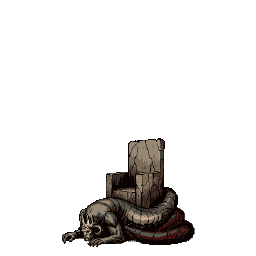
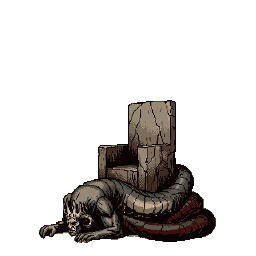
T40: Vertigem com 80 de vida; Minos e Vertigem maiores na tela (D-405)
Claude-Session: https://claude.ai/code/session_01DUWuezvzjAUhnjSiedgYuQ

Changed region(s): [[0.1562, 0.375, 0.8438, 0.9688]]

diff --git a/tools/art/import_pixel.py b/tools/art/import_pixel.py
@@ -65,6 +65,8 @@ FEET_ROWS = 6
 # Every figure is shrunk by this factor after the cleaning, so the company
 # and the enemies stand apart on the 960 x 540 screen with room between the
 # two sides (D-384). The feet stay on the same point of the 256 frame.
+# A character may have its own factor (`figure_scale` in the table): the
+# elites stand taller than the common enemies (D-405).
 FIGURE_SCALE = 0.6
 # The bust for the portrait arch and the enemy sheet is cut from the idle
 # frame at full size, before the shrink: width, height, and how far the
@@ -91,6 +93,7 @@ class Character:
     halo: tuple[float, float, float] | None
     # Every clip of the character gets the warm skin (D-388).
     warm: bool = False
+    figure_scale: float = FIGURE_SCALE
     clips: list["Clip"] = field(default_factory=list)
 
 
@@ -135,6 +138,7 @@ def read_characters() -> list[Character]:
                 weight=row["weight"],
                 palette=row["palette"],
                 halo=halo,
+                figure_scale=float(row.get("figure_scale") or FIGURE_SCALE),
             )
     with CLIPS_CSV.open(encoding="utf-8") as f:
         for row in csv.DictReader(f):
@@ -360,7 +364,7 @@ def shrink(cell: np.ndarray, scale: float) -> np.ndarray:
 def _finish(cells: list[np.ndarray], clip: Clip, char: Character, colours: np.ndarray,
             report: dict[str, int]) -> list[np.ndarray]:
     for i, cell in enumerate(cells):
-        cell = shrink(cell, FIGURE_SCALE)
+        cell = shrink(cell, char.figure_scale)
         binarize(cell)
         if char.palette == "snap":
             report["paleta"] += snap_to_palette(cell, colours)
@@ -450,8 +454,8 @@ def write_resource(char: Character, sheets: list[Sheet], anchor: tuple[int, int]
     halo_center, halo_diameter = (0.0, 0.0), 0.0
     if char.halo is not None:
         # Measured on the full-size figure: shrunk with it.
-        halo_center = (round(figure[0] + char.halo[0] * FIGURE_SCALE), round(figure[1] + char.halo[1] * FIGURE_SCALE))
-        halo_diameter = round(char.halo[2] * FIGURE_SCALE)
+        halo_center = (round(figure[0] + char.halo[0] * char.figure_scale), round(figure[1] + char.halo[1] * char.figure_scale))
+        halo_diameter = round(char.halo[2] * char.figure_scale)
     lines += [
         "[resource]",
         'script = ExtResource("1_set")',

diff --git a/docs/memory/decisions.md b/docs/memory/decisions.md
@@ -327,4 +327,5 @@ Formato: **D-número · data · quem** — decisão. *Onde está aplicada.*
 - **D-402 · 15/11/2026 · Alan** — Respostas da T39: (1) **opção B**: a Clausura de Bento vale só contra os inimigos e **não segura o Vendaval** (revê D-109 nesse ponto; com Bento no meio ela seguraria todo Vendaval); Firmar o pé é a resposta; (2) os encontros difíceis do Círculo 2 ficam como estão e são medidos de novo na T42; (3) o Vendaval ganha, na T44, **ícone**, **efeito no motor** (vento varrendo o campo na troca) e, se precisar, um **elemento** feito no PixelLab (com custo e permissão antes); (4) T39 aprovada para merge com o CI verde. *`bosses.md` §2.1, §2.2, §7; `expedition.md` §10, §10.1; `combat.md` §4.1; `battle_state.gd`.*
 - **D-403 · 15/11/2026 · Alan** — T39 com merge (PR #73), com o CI verde. Próxima: T40 (elites Minos e Vertigem, nó variável completo). *`progress.md`.*
 - **D-404 · 15/11/2026 · agente** — T40: Minos (`elite_minos`) e Vertigem (`elite_sin_vertigo`, ids da arte) com as ações e números de `bosses.md` §3 e §4 (D-394), família `elite`; encontros `c02_elite_minos` e `c02_elite_vertigo` com Vendaval; condição **Encantado** (`enchanted`, 2 rodadas pela nova forma de expirar `expire_after_rounds`), que puxa as ações inimigas de alvo único (a Provocação vence) e quebra com a bênção de outro santo (cura, Amparo, Força, limpeza, só por habilidade), dando Firmeza; IA ganha a regra `highest_hp` e a condição `no_party_condition`. Ajustes técnicos à tabela da Vertigem: Rodopio antes dos Véus (senão nunca seria escolhido) e Véus no santo da frente; alvos até a posição 3. O nó variável sorteia elites com os pesos 40/35/25 no Círculo 2 (no máximo um por caminho, já validado pelo gerador); a arena segue sem elite. Clausura resiste ao puxão de Minos (D-109). Simulador: Vertigem fácil demais (100%, pergunta a Alan). *`enemies.csv`, `enemy_actions.csv`, `effects.csv`, `conditions.csv`, `encounters.csv`, `enemy_brain.gd`, `condition_engine.gd`, `effect_queue.gd`, `expedition_controller.gd`, `conditions.md`, `enemy-ai.md`, `bosses.md`, `expedition.md` §13, `sim-reports/2026-11-15-m2-t40.md`.*
+- **D-405 · 15/11/2026 · Alan** — Revisão da T40: (1) **Vertigem com 80 de vida** (era 58; opção A); medido de novo, ela continua fácil (100%, 87% da vida no fim): a escolta frágil é o motivo (pergunta a Alan). (2) **Tamanho:** Minos mais alto que o Diabo de Lodo e a Vertigem pelo menos do tamanho da Sombra do Desejo; feito sem refazer imagens, encolhendo menos os dois na entrada (coluna nova `figure_scale` em `pixel_characters.csv`: Minos 0,8 → 177 px de altura; Vertigem 0,72 → 153 px; os outros seguem 0,6). Se ficar ruim, refazer as imagens no PixelLab (avisar Alan). *`enemies.csv`, `bosses.md` §4, `tools/art/import_pixel.py`, `pixel_characters.csv`.*
 - **D-308** — Simulador: formação do M0 Jorge (1), Bento (2), Teresinha (3); expedição longa simulada com 6 combates, Lume −5 por nó, Pousos com Vigília depois dos combates 2 e 4 e vida cheia a cada combate. *T13, `tools/sim/battle_simulator.gd`.*

diff --git a/docs/memory/open-questions.md b/docs/memory/open-questions.md
@@ -108,5 +108,6 @@ Riscar (~~assim~~) e anotar a data quando resolver.
 | T39: encontros difíceis do Círculo 2 bem mais duros que os da arena (vitória 47% contra 66%); medir de novo na expedição longa | T42 | 15/11/2026 |
 | ~~T39: ícone do Vendaval sobre os santos (hoje só a palavra); peça do PixelLab com custo e permissão~~ Decidido (D-402): ícone, efeito no motor e, se precisar, elemento do PixelLab, na T44 | Alan / T44 | 15/11/2026 |
 | Vendaval na T44: ícone, efeito no motor (vento varrendo o campo na troca) e talvez um elemento do PixelLab (mandar custo antes, D-402) | Alan / T44 | 15/11/2026 |
-| T40: Vertigem fácil no simulador (100% de vitória, 89% de vida no fim); subir a vida, trocar a escolta ou medir de novo na T42 | Alan | 15/11/2026 |
-| T40: Minos e Vertigem no tamanho dos inimigos comuns na tela; tamanho dos elites e do chefe (pendência de D-233) | Alan | 15/11/2026 |
+| ~~T40: Vertigem fácil no simulador (100% de vitória, 89% de vida no fim); subir a vida, trocar a escolta ou medir de novo na T42~~ Vida 80 (D-405); continua fácil: escolta frágil, nova pergunta | Alan | 15/11/2026 |
+| ~~T40: Minos e Vertigem no tamanho dos inimigos comuns na tela; tamanho dos elites e do chefe (pendência de D-233)~~ Minos 177 px e Vertigem 153 px (D-405); Asmodeu na T41 | Alan | 15/11/2026 |
+| T40: Vertigem ainda fácil com 80 de vida (100%); trocar o Sopro Errante da escolta por um Diabo de Lodo ou medir na T42 | Alan | 15/11/2026 |

diff --git a/docs/balance/sim-reports/2026-11-15-m2-t40.md b/docs/balance/sim-reports/2026-11-15-m2-t40.md
@@ -17,3 +17,5 @@ O que os números mostram:
 1. **Minos é um elite de verdade**: luta longa (10 rodadas), a companhia sai com pouco mais da metade da vida.
 2. **A Vertigem está fácil**: 100% de vitória em 5 rodadas, com 89% da vida. A escolta (Sombra e Sopro) é frágil e ela tem só 58 de vida, sem armadura. Proposta para Alan: subir a vida da Vertigem ou trocar a escolta; ou medir de novo na T42, com a desolação acumulada do trecho.
 3. Com os elites, as derrotas no trecho 1 sobem de 7,1% para 9,8%.
+
+**Escolha de Alan (D-405): opção A, Vertigem com 80 de vida.** Medido de novo: Vertigem sozinha, vitória 100% em 5,8 rodadas, 87% da vida no fim; trecho 1: vitória no difícil 52%, Noite Escura 0,66, derrotas 9,8%. A vida a mais quase não muda a luta: o que a deixa fácil é a escolta frágil.

diff --git a/docs/specs/bosses.md b/docs/specs/bosses.md
@@ -87,7 +87,7 @@ Escolta proposta: Diabo de Lodo (1), Escaravelho Infernal (2), Minos (3).
 
 | Campo | Proposta |
 | --- | --- |
-| Vida | [vertigo_max_hp] = 58 |
+| Vida | [vertigo_max_hp] = 80 (era 58; Alan subiu na T40, D-405) |
 | Armadura | 0 |
 | Imunidade | Atordoamento |
 | Tamanho | 1 posição; posição 2 ou 3 |
